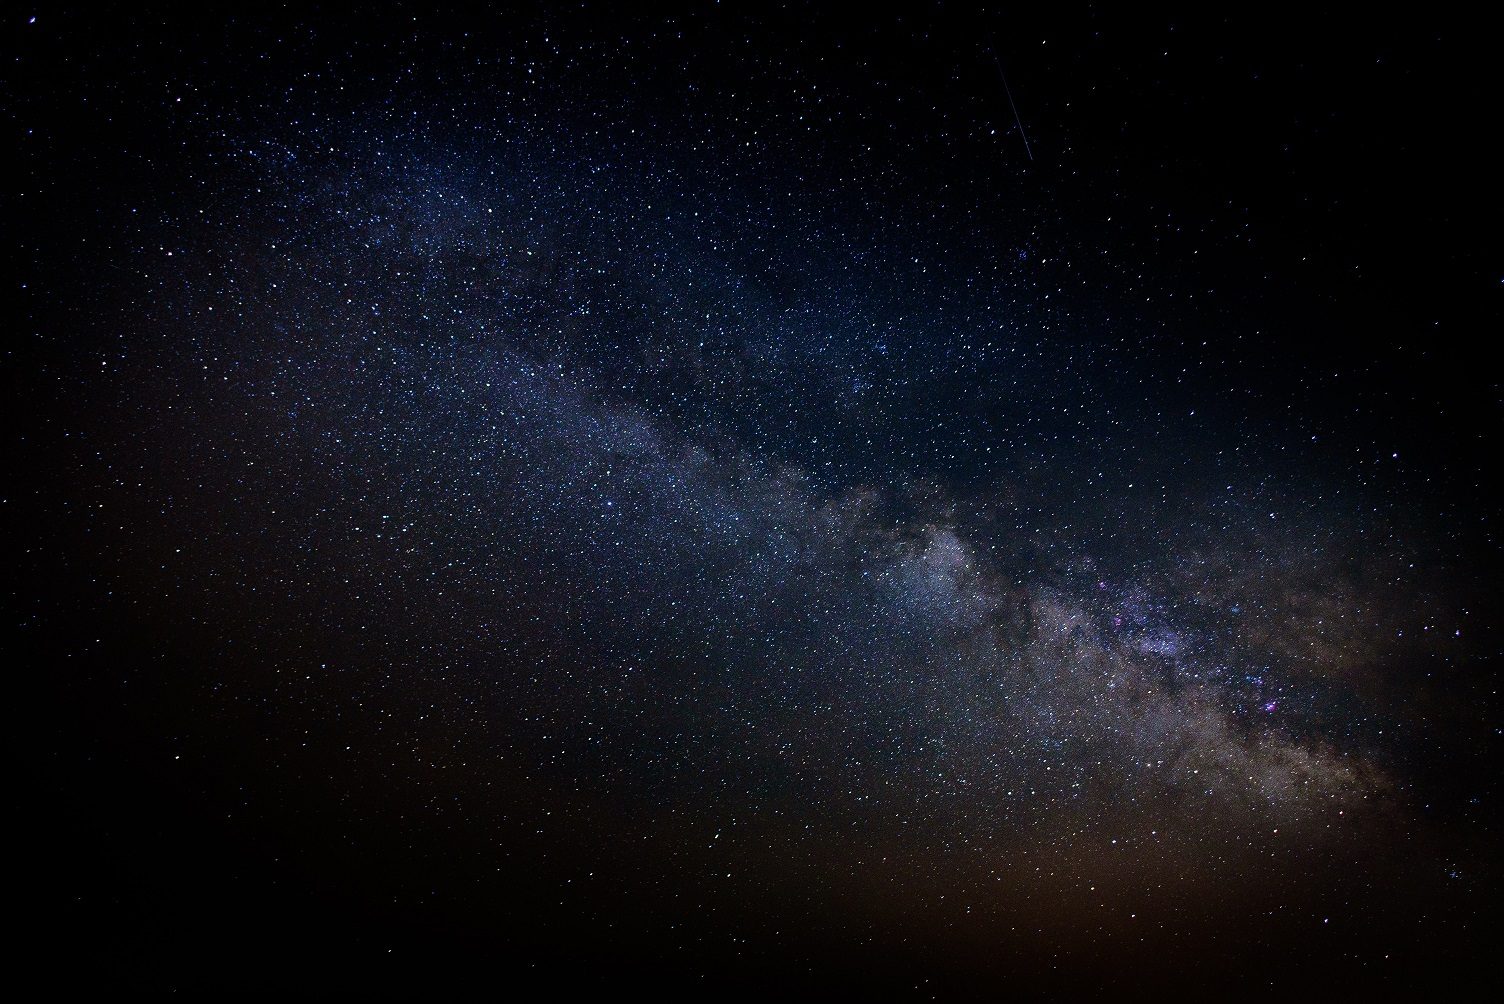
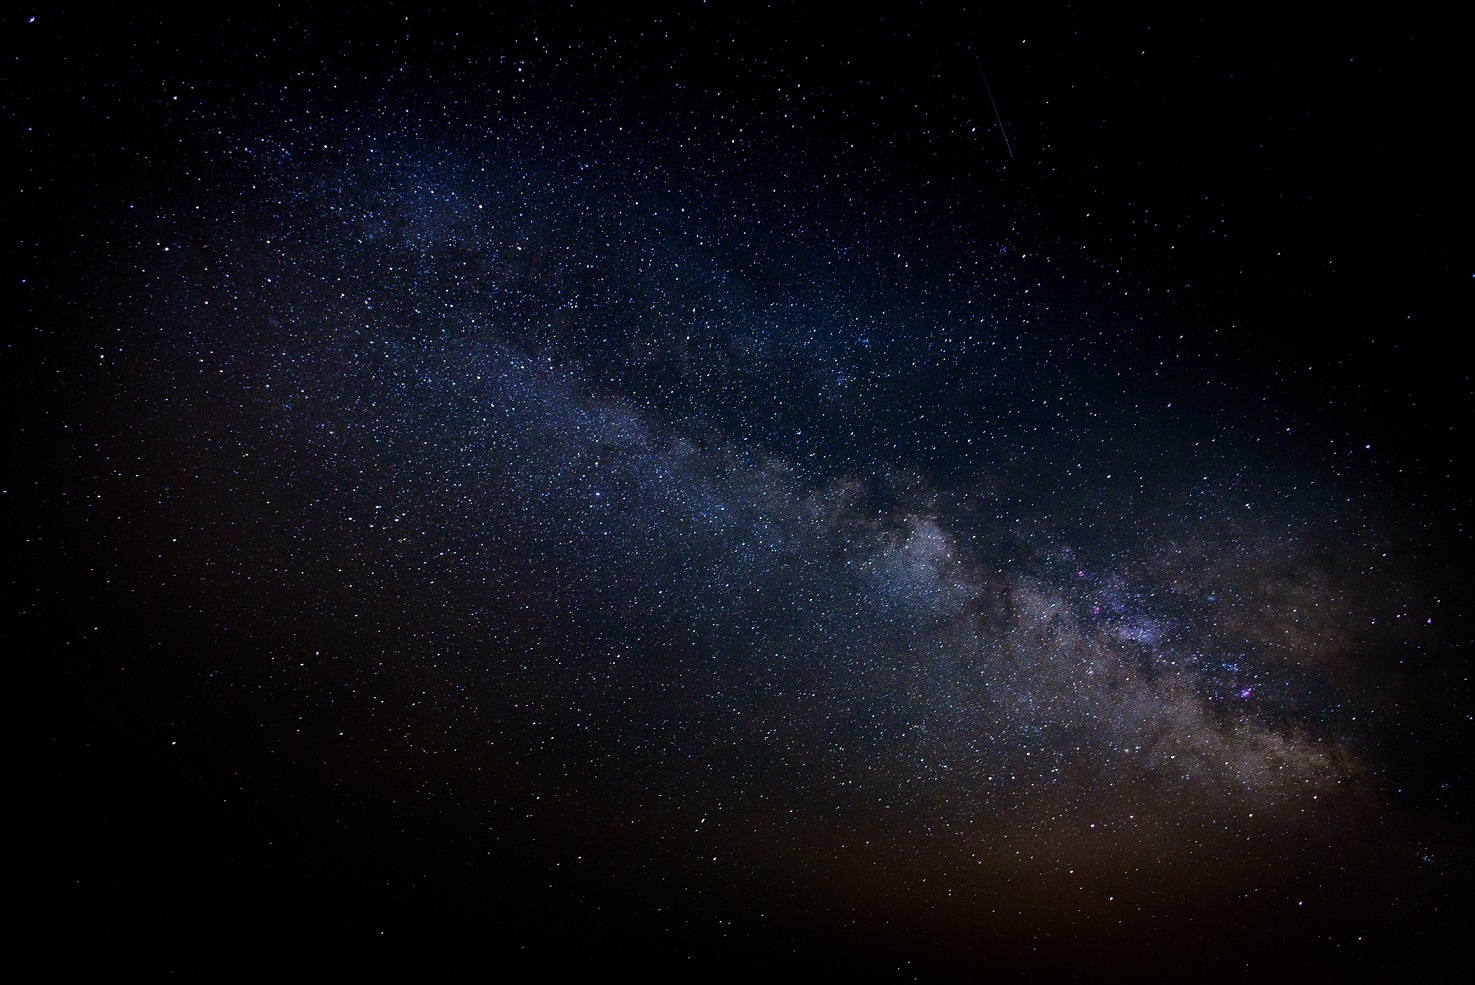
Nathan Cho Portfolio

Changed region(s): [[0.7485, 0.6396, 0.7797, 0.6701]]

diff --git a/css/nathancss.css b/css/nathancss.css
@@ -151,10 +151,11 @@ p {
 
 /* home */
 #home {
-  background: url("image/background6.png") center/cover no-repeat;
+  background: url("image/backgrounds.png") center/cover no-repeat;
   padding: 40px;
-  padding-top: 120px;
+  padding-top: 258px;
   text-align: center;
+  padding-bottom: 258px;
 }
 
 .home__avatar {
@@ -169,6 +170,8 @@ p {
   color: var(--color-white);
   font-family: "Poiret One", cursive;
   letter-spacing: 10px;
+  margin-top: 20px;
+  margin-bottom: 20px;
 }
 
 .home__contact {
@@ -192,6 +195,7 @@ p {
   text-align: center;
   padding: 50px;
   margin: auto;
+  padding-top: 100px;
 }
 
 .section__container {
@@ -514,6 +518,11 @@ p {
     --font-small: 14px;
     --font-micro: 12px;
   }
+  #home {
+    padding-top: 100px;
+    padding-bottom: 100px;
+  }
+
   .navbar__toggle-btn {
     display: block;
     top: 10px;

diff --git a/index.html b/index.html
@@ -97,7 +97,7 @@
             <div class="about__jobs">
                 <h2 class="experience__H1">EXPERIENCE</h2>
                 <div class="job">
-                    <img src="//static1.squarespace.com/static/599ef938ccc5c51b691e6a92/t/5b16d8250e2e72611bf521c6/1551316630179/?format=1500w" alt="Offline Inc." class="job_logo" width="100"/>
+                    <img src="image/offline.png" alt="Offline Inc." class="job_logo" width="100"/>
                     <div class="job__description">
                         <p class="job__name">Offline, Inc. as a Production Team Manager</p>
                         <p class="job__period">Jul 2013 ~ May 2020</p>
